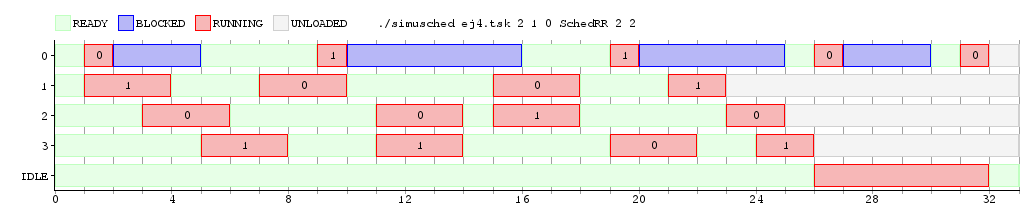
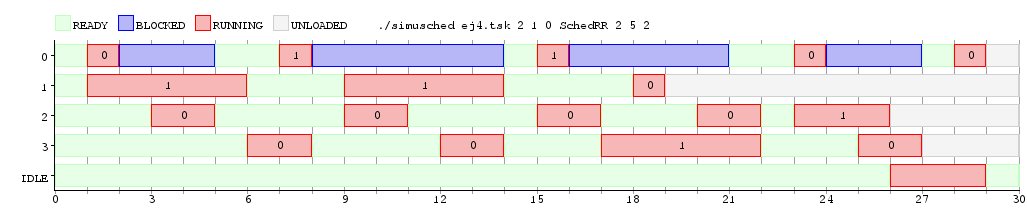
Arreglado RR2 para conformar con el cambio del commit anterior. Makefile modificado

diff --git a/tp1/simusched/sched_rr2.cpp b/tp1/simusched/sched_rr2.cpp
@@ -11,8 +11,17 @@ SchedRR2::SchedRR2(vector<int> argn) {
 	// Round robin recibe la cantidad de cores y sus cpu_quantum por parámetro
 	// Inicialización de cosas
 	coreNum = argn[0];
-	maxQuantum = argn[1];
-	quantum = vector<int>(coreNum, maxQuantum);
+	if ((int)argn.size() < coreNum+1){
+		cout << "No hay suficientes quantums para la cantidad de núcleos indicada!" << endl;
+		exit(1);
+	}
+
+	maxQuantum = vector<int>(coreNum);
+	quantum = vector<int>(coreNum);
+	for (int i = 0; i < coreNum; ++i){
+		maxQuantum[i] = argn[i + 1];
+		quantum[i] = maxQuantum[i];
+	}
 
 	colas = std::vector<std::queue<int> >(coreNum);
 	activos = std::vector<int>(coreNum, 0);
@@ -58,7 +67,7 @@ int SchedRR2::nextTask(int cpu){
 		// Se quita de la cola del CPU correspondiente
 		colas[cpu].pop();
 		// Se resetea el quantum
-		quantum[cpu] = maxQuantum;
+		quantum[cpu] = maxQuantum[cpu];
 		// Y se devuleve
 		return sig;
 	}
@@ -86,7 +95,7 @@ int SchedRR2::tick(int cpu, const enum Motivo m) {
 				// Se quita de la cola correspondiente
 				colas[cpu].pop();
 				// Finalmente, reseteamos el quantum
-				quantum[cpu] = maxQuantum;
+				quantum[cpu] = maxQuantum[cpu];
 				// ...y lo devolvemos!
 				return actual;
 			} else {

diff --git a/tp1/simusched/sched_rr2.h b/tp1/simusched/sched_rr2.h
@@ -31,8 +31,8 @@ class SchedRR2 : public SchedBase {
 
 		// tiempo restante por cada cpu
 		std::vector<int> quantum;
-		// duración total del quantum
-		int maxQuantum;
+		// duración total del quantum por CPU
+		std::vector<int> maxQuantum;
 };
 
 #endif
